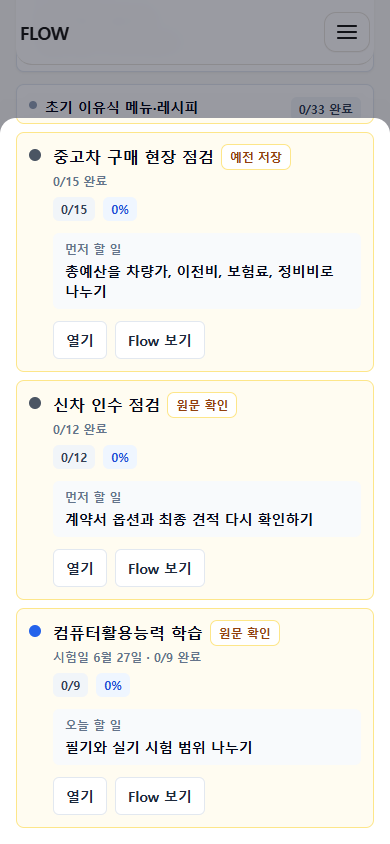
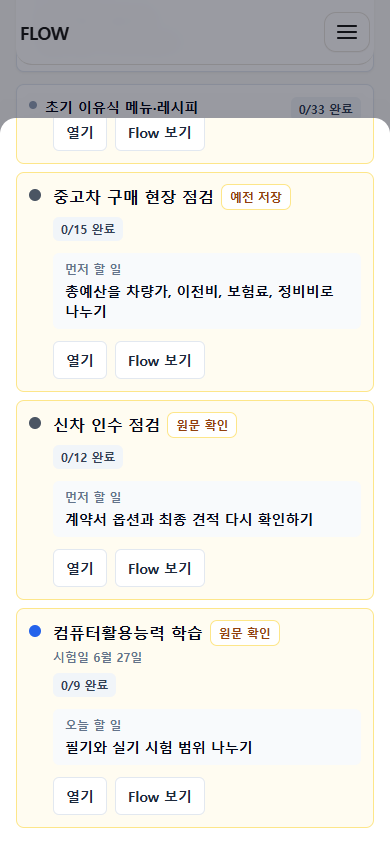
Refresh P10 evidence for inventory metrics

diff --git a/docs/content-audit/2026-07-06-claude-design-p10-final-review-package/review.html b/docs/content-audit/2026-07-06-claude-design-p10-final-review-package/review.html
@@ -30,7 +30,7 @@
   <main>
     <h1>FlowMe P10 Final Review Package</h1>
     <p class="lead">P7/P8/P9 기준선 위에 P10-01~P10-07 guardrail 단일화, public share primary path, My Flow continuation, Calendar group header, 짧은 컨트롤 라벨, GitHub link base, input value raw ISO 정책을 고정하기 위한 모바일 390px screenshot/evidence 패키지입니다.</p>
-    <p class="meta">UI baseline commit: ffab3c3 · Package generated from: ffab3c3 · Package commit ref: git commit containing this generated package</p>
+    <p class="meta">UI baseline commit: 0866dd6 · Package generated from: 0866dd6 · Package commit ref: git commit containing this generated package</p>
     <section class="summary">
       <div class="stat"><b>26</b><span>screenshots</span></div>
       <div class="stat"><b>0</b><span>normal internal hits</span></div>

diff --git a/docs/content-audit/2026-07-06-claude-design-p10-final-review-package/audit.md b/docs/content-audit/2026-07-06-claude-design-p10-final-review-package/audit.md
@@ -10,6 +10,8 @@ P10-07 extends the same evidence gate to input values: visible text raw ISO rema
 
 P11-02 keeps the UI unchanged and strengthens the evidence layer. The capture output now records `continuationActionable`, `agendaGroupMeta`, and `rowControlAccessibleNames` so P10-03/P10-04/P10-05 can be reviewed from JSON markers as well as screenshots. Calendar agenda groups and My Flow status-sheet groups use the same marker shape.
 
+P11-04/P11-09 lower My Flow inventory density without changing progress calculations. Inventory rows keep a single visible progress label, the mobile all-tab header avoids large total remaining-count copy, and `inventoryProgressMetrics`/`inventoryHeaderMetrics` markers make those claims auditable from JSON.
+
 ## Baselines Covered
 
 - P7-01: `/restart/moving-d30` uses user-facing date text and a quieter export hierarchy.
@@ -38,14 +40,15 @@ P11-02 keeps the UI unchanged and strengthens the evidence layer. The capture ou
 - P10-07: visible raw ISO text, raw ISO input hits, and native date input exemptions are counted separately.
 - P11-01: My Flow overdue status sheets group shared date/content/timing metadata once per group.
 - P11-02: continuation actionable state, Calendar/status-sheet group metadata, and row-control accessible-name samples are recorded as route-evidence markers.
+- P11-04/P11-09: My Flow inventory rows avoid duplicate progress metrics, and the mobile all-tab header avoids large total remaining-count copy.
 
 ## Summary
 
 ```json
 {
   "totalScreenshots": 26,
-  "uiBaselineCommit": "ffab3c3",
-  "packageGeneratedFromCommit": "ffab3c3",
+  "uiBaselineCommit": "0866dd6",
+  "packageGeneratedFromCommit": "0866dd6",
   "packageCommitRef": "git commit containing this generated package",
   "normalRouteInternalHitCount": 0,
   "normalRouteSourceSlugHitCount": 0,
@@ -63,6 +66,8 @@ P11-02 keeps the UI unchanged and strengthens the evidence layer. The capture ou
   "normalRouteStatusSheetUngroupedRowCount": 0,
   "normalRouteRowControlAccessibleNameSampleCount": 4,
   "normalRouteRowControlAccessibleNameContextCount": 4,
+  "normalRouteInventoryDuplicateProgressMetricCount": 0,
+  "normalRouteInventoryHeaderLargeRemainingCount": 0,
   "normalRouteQueueLabelScope": "my-flow-queue-label-surfaces",
   "normalRouteQueueLabelCount": 9,
   "normalRouteLegacyOverdueLabelCount": 0,
@@ -236,8 +241,8 @@ The restart source/export frame and bottom frame must remain distinct:
 
 ## Commit Metadata
 
-- UI baseline commit: `ffab3c3`
-- Package generated from commit: `ffab3c3`
+- UI baseline commit: `0866dd6`
+- Package generated from commit: `0866dd6`
 - Package commit ref: `git commit containing this generated package`
 
 ## Residual Risk

diff --git a/docs/content-audit/2026-07-06-claude-design-p10-final-review-package/README.md b/docs/content-audit/2026-07-06-claude-design-p10-final-review-package/README.md
@@ -1,9 +1,9 @@
 # FlowMe Claude Design P10 Final Review Package
 
-- Generated: 2026-07-06T13:24:15.785Z
+- Generated: 2026-07-06T14:14:26.831Z
 - Branch: `codex/flowme-uxui-second-loop`
-- UI baseline commit: `ffab3c3`
-- Package generated from commit: `ffab3c3`
+- UI baseline commit: `0866dd6`
+- Package generated from commit: `0866dd6`
 - Package commit ref: `git commit containing this generated package`
 - Viewport: 390x844
 
@@ -16,6 +16,8 @@ For P10, this package closes P10-01 to P10-07: guardrail/capture canonicalizatio
 For P10-07 specifically, the scan separates raw ISO visible text from raw ISO input values. Native `input[type=date]` ISO values are treated as technical browser control values and recorded in an explicit exemption bucket; non-date input values with raw ISO remain guardrail hits.
 
 P11-02 adds JSON-level evidence markers for the P10-03/P10-04/P10-05 claims: `continuationActionable`, `agendaGroupMeta`, and `rowControlAccessibleNames`. Claude Design can now judge the continuation row, Calendar/My Flow group metadata, and short visible labels with preserved accessible names from `route-evidence.json` without relying only on screenshots.
+
+P11-04/P11-09 reduce My Flow inventory metric noise. Each saved-content row exposes one primary progress label, and the mobile all-tab header avoids large total remaining-count copy. The capture output records `inventoryProgressMetrics` and `inventoryHeaderMetrics` so duplicate progress metrics and large remaining-count headers can be judged from JSON markers.
 
 ## Files
 

diff --git a/docs/content-audit/2026-07-06-claude-design-p10-final-review-package/prompt-ko.md b/docs/content-audit/2026-07-06-claude-design-p10-final-review-package/prompt-ko.md
@@ -40,8 +40,8 @@
 ```json
 {
   "totalScreenshots": 26,
-  "uiBaselineCommit": "ffab3c3",
-  "packageGeneratedFromCommit": "ffab3c3",
+  "uiBaselineCommit": "0866dd6",
+  "packageGeneratedFromCommit": "0866dd6",
   "packageCommitRef": "git commit containing this generated package",
   "normalRouteInternalHitCount": 0,
   "normalRouteSourceSlugHitCount": 0,
@@ -59,6 +59,8 @@
   "normalRouteStatusSheetUngroupedRowCount": 0,
   "normalRouteRowControlAccessibleNameSampleCount": 4,
   "normalRouteRowControlAccessibleNameContextCount": 4,
+  "normalRouteInventoryDuplicateProgressMetricCount": 0,
+  "normalRouteInventoryHeaderLargeRemainingCount": 0,
   "normalRouteQueueLabelScope": "my-flow-queue-label-surfaces",
   "normalRouteQueueLabelCount": 9,
   "normalRouteLegacyOverdueLabelCount": 0,
